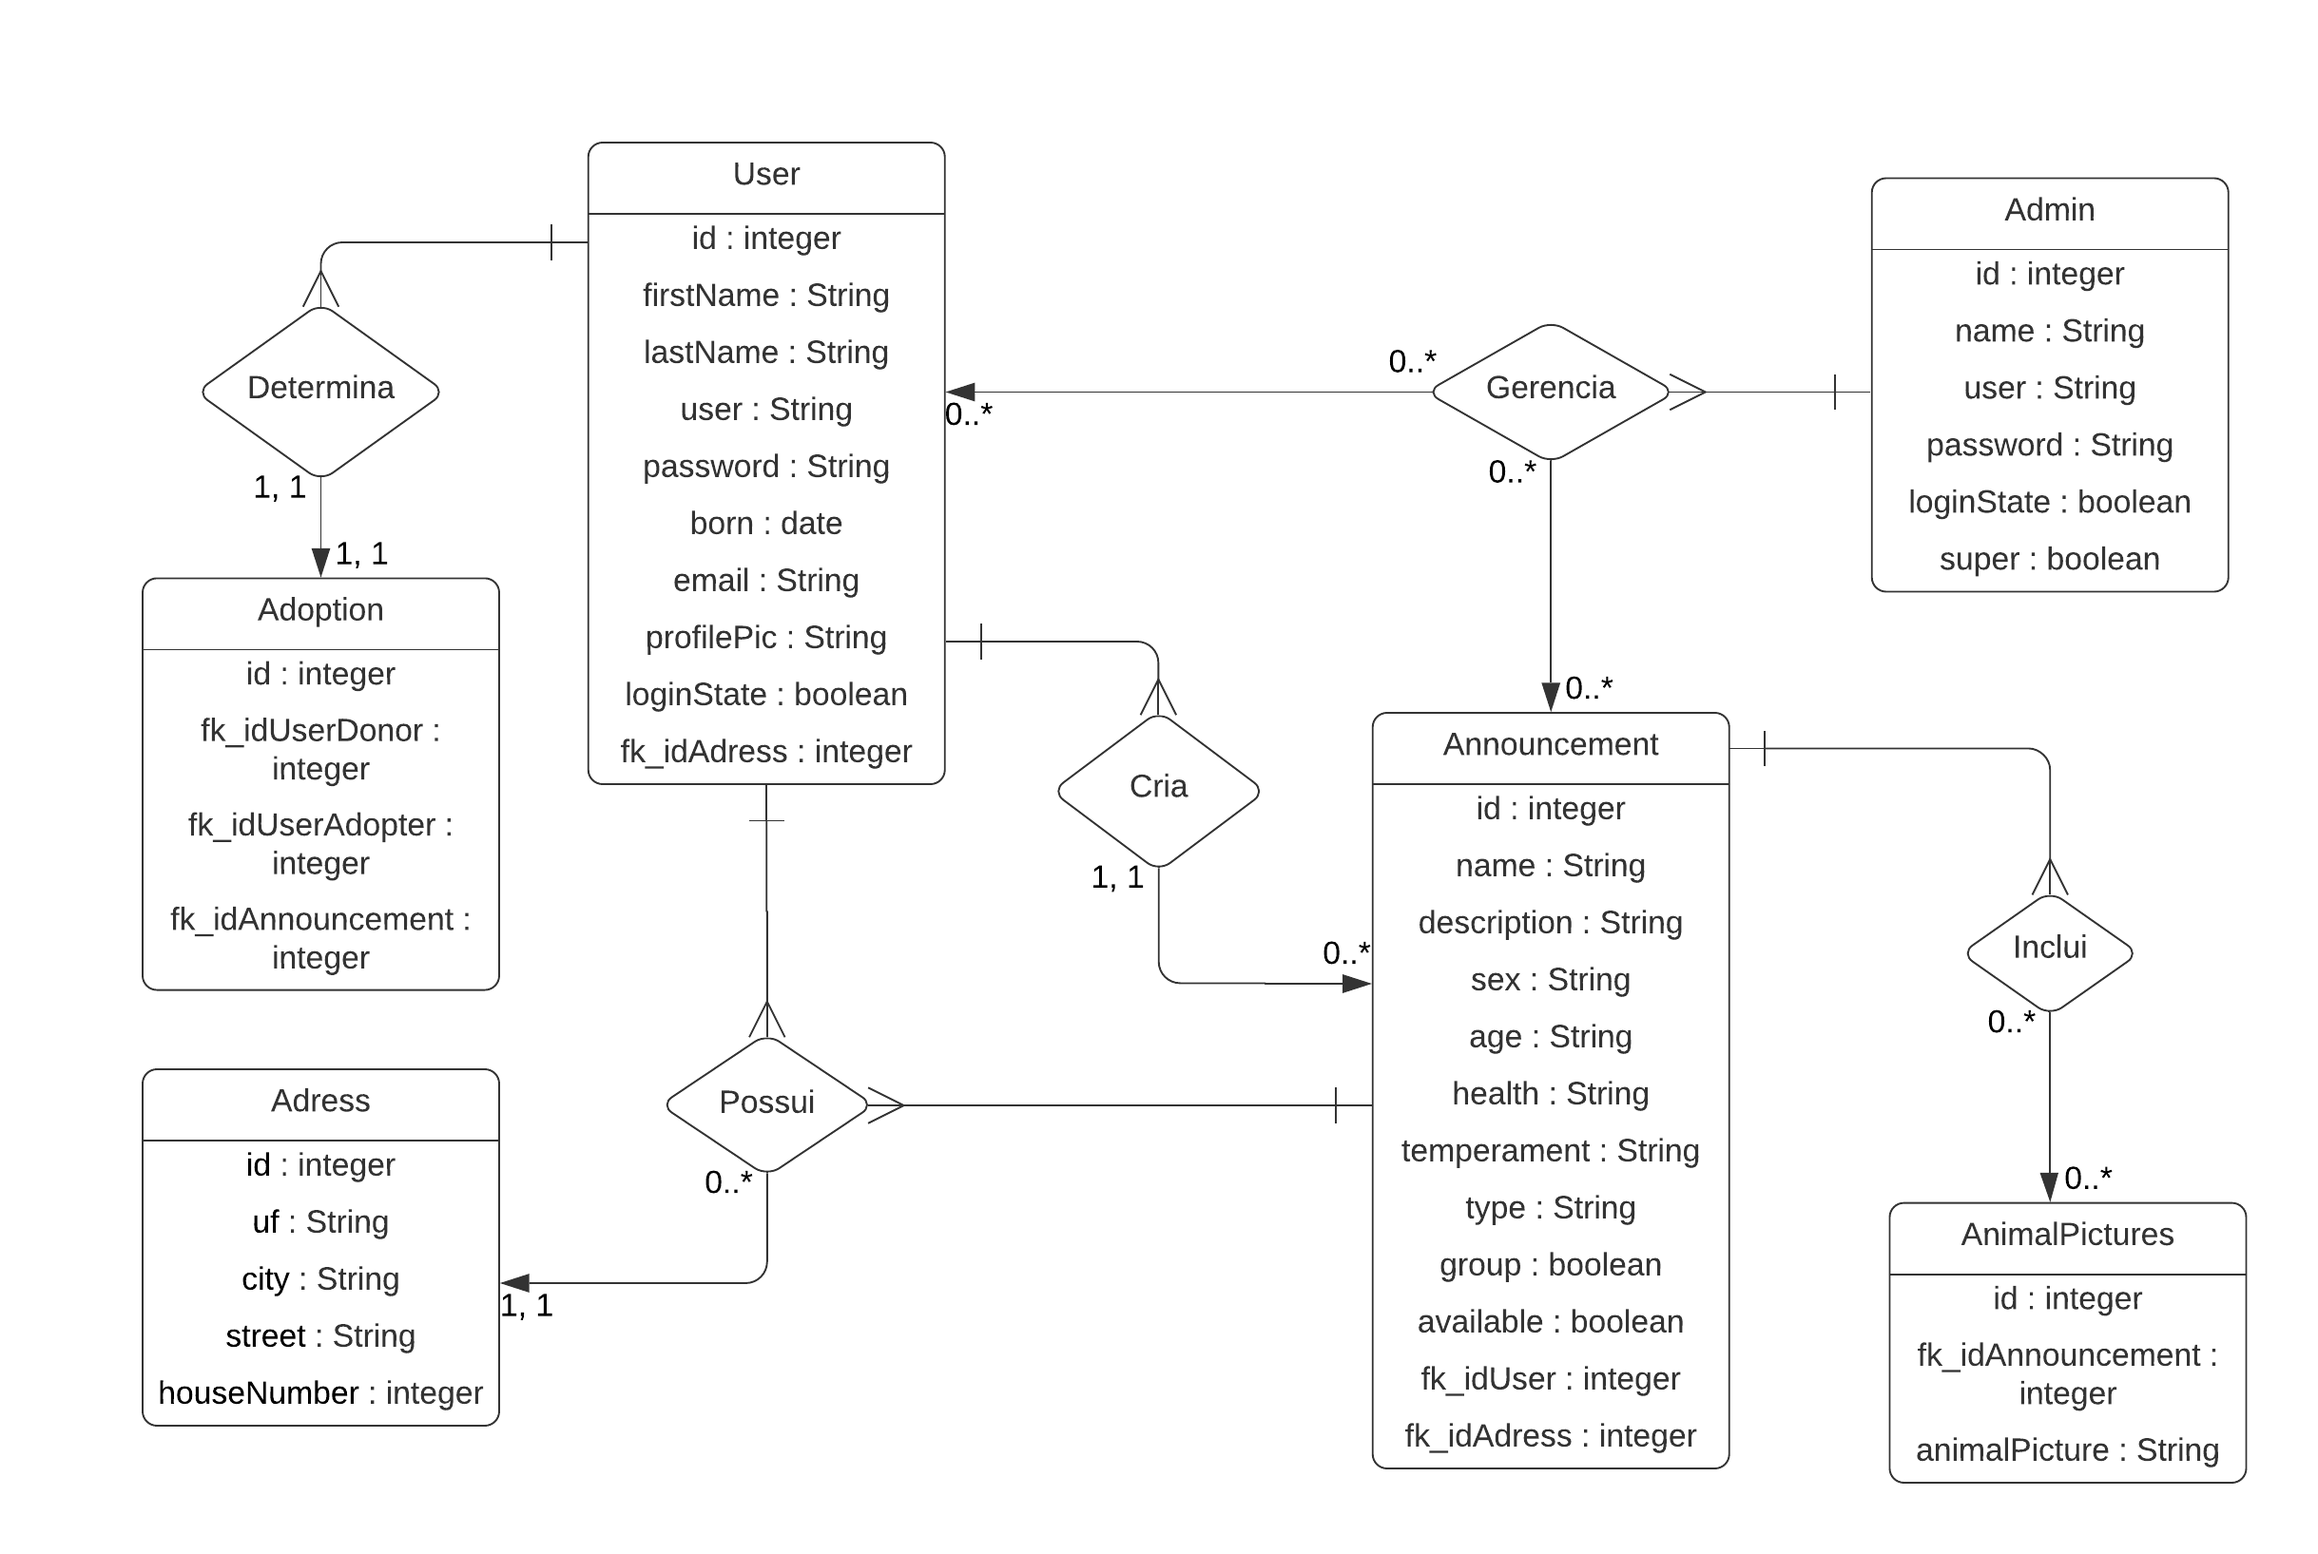
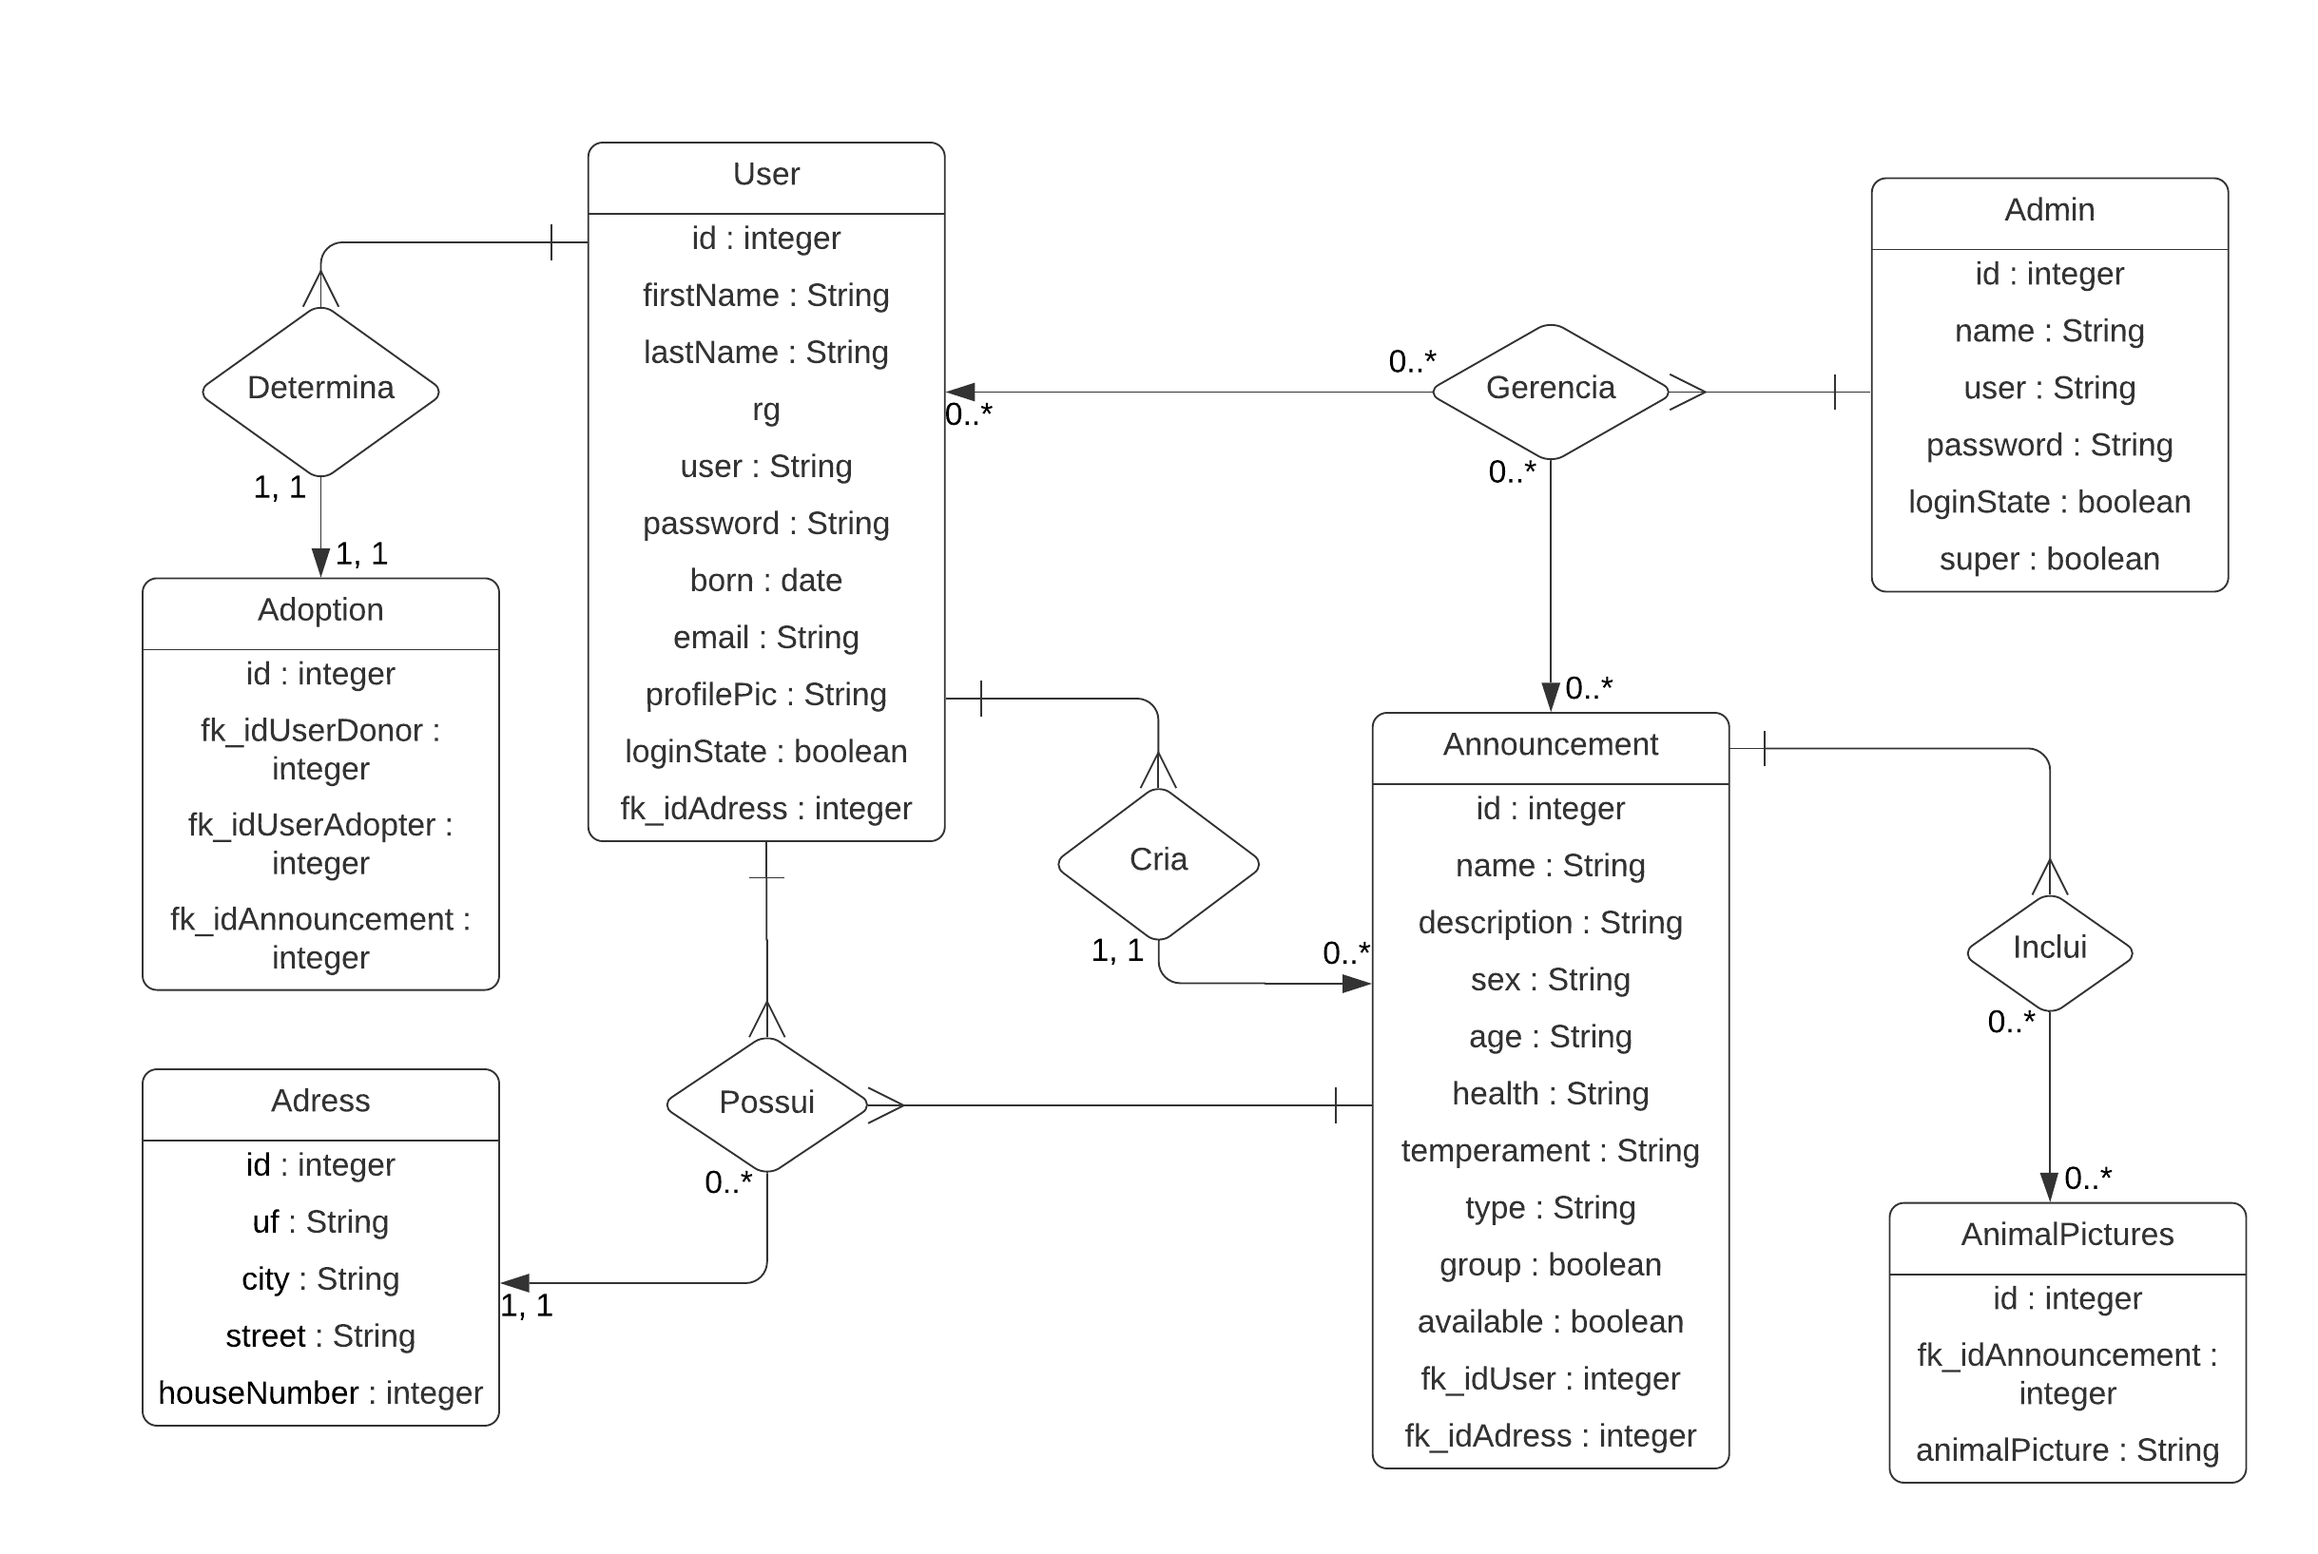
docs fix atualização ER campo rg

Changed region(s): [[0.2494, 0.2495, 0.4053, 0.5303], [0.4676, 0.4991, 0.5299, 0.5615], [0.4676, 0.5927, 0.4988, 0.6239]]

diff --git a/backend/src/routes.js b/backend/src/routes.js
@@ -6,7 +6,6 @@ const routes = express.Router();
 const ClientController = require('./controllers/ClientController');
 const AnnouncementController = require('./controllers/AnnouncementController');
 const AnimalPicturesController = require('./controllers/AnimalPicturesController');
-const ConversationController = require('./controllers/ConversationController');
 
 //ROTA RAIZ
 routes.get('/', (req, res)=>{
@@ -31,8 +30,5 @@ routes.delete('/announcements/:id', AnnouncementController.delete);
 routes.post('/pictures/:id', AnimalPicturesController.create);
 routes.get('/pictures', AnimalPicturesController.index);
 
-//ROTAS CONVERSATIONS
-routes.post('/conversation/:id', ConversationController.create);
-routes.get('/conversation', ConversationController.index);
 
 module.exports = routes;

diff --git a/backend/src/database/models/AnimalPicturesModel.js b/backend/src/database/models/AnimalPicturesModel.js
@@ -11,12 +11,6 @@ const AnnouncementModel = require('./AnnouncementModel');
 
 //MODELO
 const AnimalPictures = sequelize.define('animal_pictures', {
-    fk_idad:{
-        type: DataTypes.INTEGER,
-        allowNull: false,
-        references: { model: AnnouncementModel, key: 'id' },
-        validate: { notEmpty: { msg: "Este campo não pode estar vazio" } }
-    },
     animal_pic:{
         type: DataTypes.STRING
     }
@@ -25,3 +19,13 @@ module.exports = AnimalPictures;
 
 //CRIAÇÃO DA TABELA NO BANCO
 //AnimalPictures.sync({force: true});
+
+/*
+
+    fk_idad:{
+        type: DataTypes.INTEGER,
+        allowNull: false,
+        references: { model: AnnouncementModel, key: 'id' },
+        validate: { notEmpty: { msg: "Este campo não pode estar vazio" } }
+    },
+    */

diff --git a/backend/src/database/models/AdoptionModel.js b/backend/src/database/models/AdoptionModel.js
@@ -23,15 +23,18 @@ const Adoption = sequelize.define('adoption', {
         allowNull: false,
         references: { model: ClientModel, key: 'id' },
         validate: { notEmpty: { msg: "Este campo não pode estar vazio" } }
-    },
+    }
+}, {});
+module.exports = Adoption;
+
+//CRIAÇÃO DA TABELA NO BANCO
+Adoption.sync({force: true});
+
+/*
+,
     fk_idAnnouncement:{
         type: DataTypes.INTEGER,
         allowNull: false,
         references: { model: AnnouncementModel, key: 'id' },
         validate: { notEmpty: { msg: "Este campo não pode estar vazio" } }
-    },
-}, {});
-module.exports = Adoption;
-
-//CRIAÇÃO DA TABELA NO BANCO
-//Adoption.sync({force: true});
+    },*/

diff --git a/backend/src/database/models/AdressModel.js b/backend/src/database/models/AdressModel.js
@@ -29,7 +29,7 @@ const Adress = sequelize.define('adress', {
         validate: { notEmpty: { msg: "Este campo não pode estar vazio" } }
     }
 }, {});
-module.exports = Announcement;
+module.exports = Adress;
 
 //CRIAÇÃO DA TABELA NO BANCO
 //Adress.sync({force: true});
